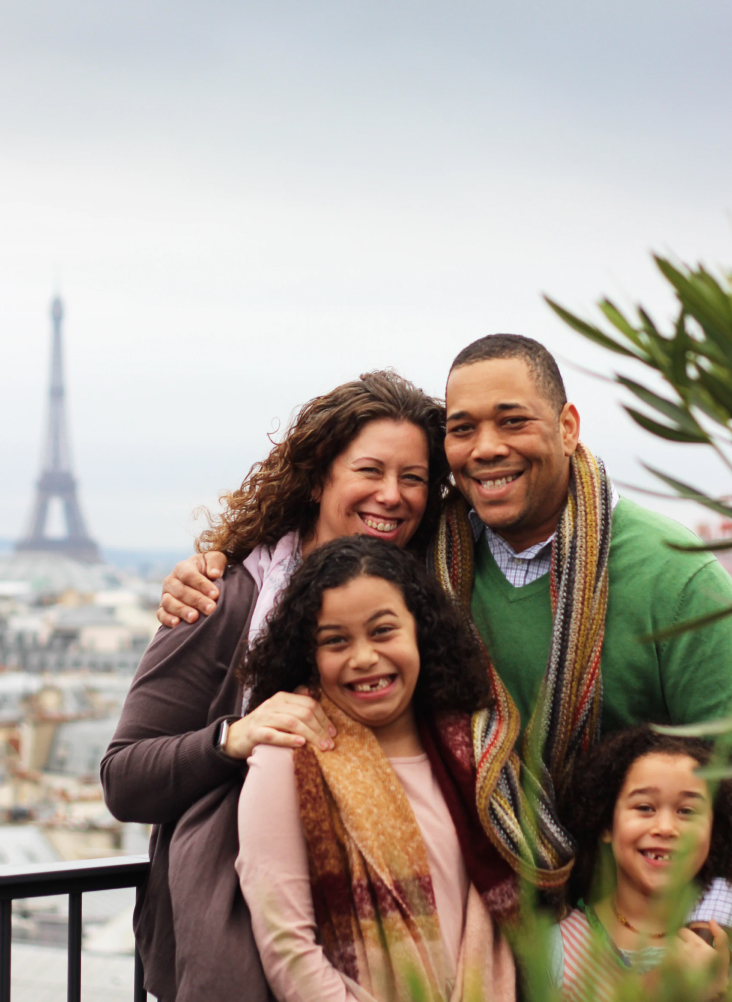
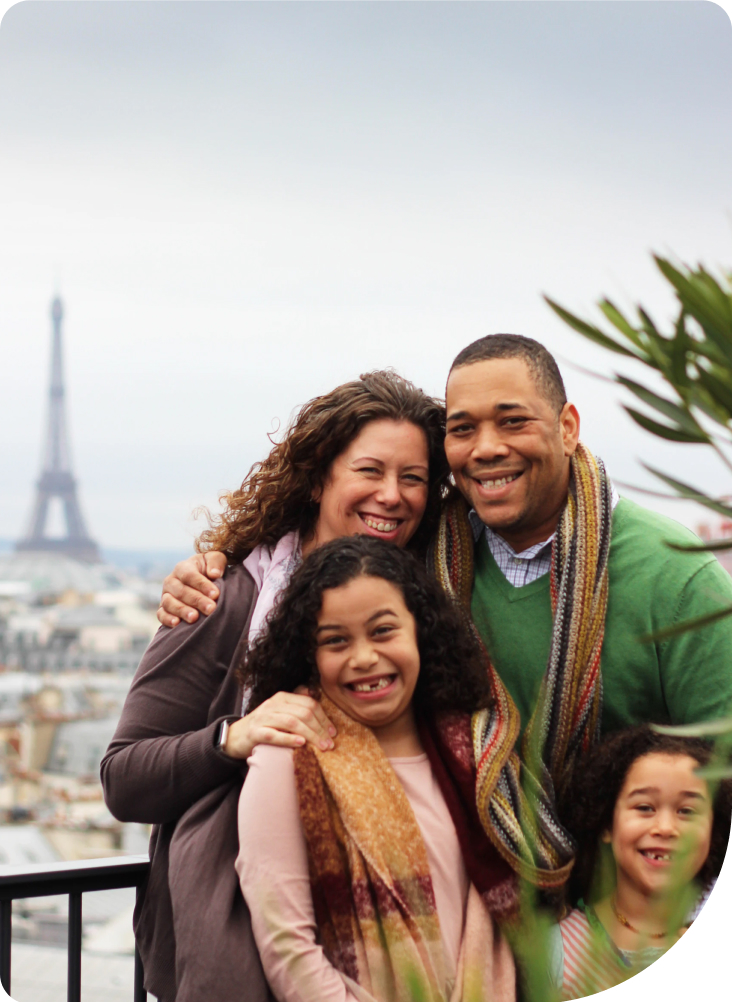
Testimony Done

diff --git a/src/parts/Testimoni.jsx b/src/parts/Testimoni.jsx
@@ -1,11 +1,52 @@
 import React from "react";
 
+import TestimonyAccent from "assets/images/testimonial-landingpage-frame.jpg";
 import Star from "elements/Star";
+import Button from "elements/Button";
 
-export default function Testimoni() {
+export default function Testimoni({ data }) {
   return (
-    <div className="my-5">
-      <Star value={3.4} width={35} height={35} spacing={4}></Star>
-    </div>
+    <section className="container">
+      <div className="row align-items-center">
+        {/* //kiri */}
+        <div className="col-auto" style={{ marginRight: 70 }}>
+          <div className="testimonial-hero" style={{ margin: `30px 0 0 30px` }}>
+            <img
+              src={data.imageUrl}
+              alt="Testimonial"
+              className="position-absolute"
+              style={{ zIndex: 1 }}
+            />
+            <img
+              src={TestimonyAccent}
+              alt="Testimonial"
+              className="position-absolute"
+              style={{ margin: `-30px 0 0 -30px` }}
+            />
+          </div>
+        </div>
+        {/* //kiri */}
+        <div className="col">
+          <h4 style={{ marginBottom: 40 }}>{data.name}</h4>
+          <Star value={data.rate} width={35} height={35} spacing={4} />
+          <h5 className="h2 fw-light line-height-2 my-3">{data.content}</h5>
+          <span className="text-gray-500">
+            {data.familyName}, {data.familyOccupation}
+          </span>
+          <div>
+            <Button
+              className="btn px-5"
+              style={{ marginTop: 40 }}
+              hasShadow
+              isPrimary
+              type="link"
+              href={`/testimonial/${data._id}`}
+            >
+              Read Their Story
+            </Button>
+          </div>
+        </div>
+      </div>
+    </section>
   );
 }

diff --git a/src/elements/Star/index.test.js b/src/elements/Star/index.test.js
@@ -1,0 +1,17 @@
+import React from 'react'
+import { render } from '@testing-library/react'
+
+import Star from './index';
+
+test("Should have props [value, height, width, spacing]", () => {
+    const height = 40, width= 40, spacing = 4
+    const {container} = render(<Star width={width} height={height} spacing={spacing} value={3.6} ></Star>)
+    const startYellow = "div.stars div.star:not(.placeholder)" //div stars yang punya class star tapi yang ga punya class placeholder
+
+    expect(container.querySelector("div.stars")).toBeInTheDocument()
+    expect(container.querySelector("div.stars")).toHaveAttribute("style", expect.stringContaining(`height: ${height}px`))
+    expect(container.querySelector(startYellow)).toBeInTheDocument()
+    expect(container.querySelector(startYellow)).toHaveAttribute("style", expect.stringContaining(`width: ${width}px`))
+    expect(container.querySelector(startYellow)).toHaveAttribute("style", expect.stringContaining(`height: ${height}px`))
+    expect(container.querySelector(startYellow)).toHaveAttribute("style", expect.stringContaining(`margin-right: ${spacing}px`))
+})

diff --git a/src/assets/scss/_buttons.scss b/src/assets/scss/_buttons.scss
@@ -21,7 +21,8 @@
   --#{$prefix}btn-focus-box-shadow: 0 0 0 #{$btn-focus-width} rgba(var(--#{$prefix}btn-focus-shadow-rgb), .5);
   // scss-docs-end btn-css-vars
 
-  display: inline-block;
+  display: inline-flex;
+  align-items: center;
   min-height: 50px;
   padding: var(--#{$prefix}btn-padding-y) var(--#{$prefix}btn-padding-x);
   font-family: var(--#{$prefix}btn-font-family);

diff --git a/src/elements/Star/index.jsx b/src/elements/Star/index.jsx
@@ -4,7 +4,7 @@ import propTypes from "prop-types";
 import "./index.scss";
 
 export default function Star({ classname, value, height, width, spacing }) {
-  const decimals = Number(value) % 1;
+  const decimals = Number(value) % 1; // biar value yang decimal kaya 3,4 jadi 0,4. function Number() untuk float/decimal number
 
   const star = [];
   let leftPos = 0; //left position

diff --git a/src/pages/LandingPage.jsx b/src/pages/LandingPage.jsx
@@ -21,7 +21,7 @@ export default class LandingPage extends Component {
           data={landingPage.mostPicked}
         />
         <Categories data={landingPage.categories} />
-        <Testimoni></Testimoni>
+        <Testimoni data={landingPage.testimonial}></Testimoni>
       </>
     );
   }

diff --git a/src/assets/scss/style.scss b/src/assets/scss/style.scss
@@ -205,3 +205,8 @@ section{
         }
     }
 }
+
+.testimonial-hero, .testimonial-hero img {
+    width: 365px;
+    height: 500px;
+}
